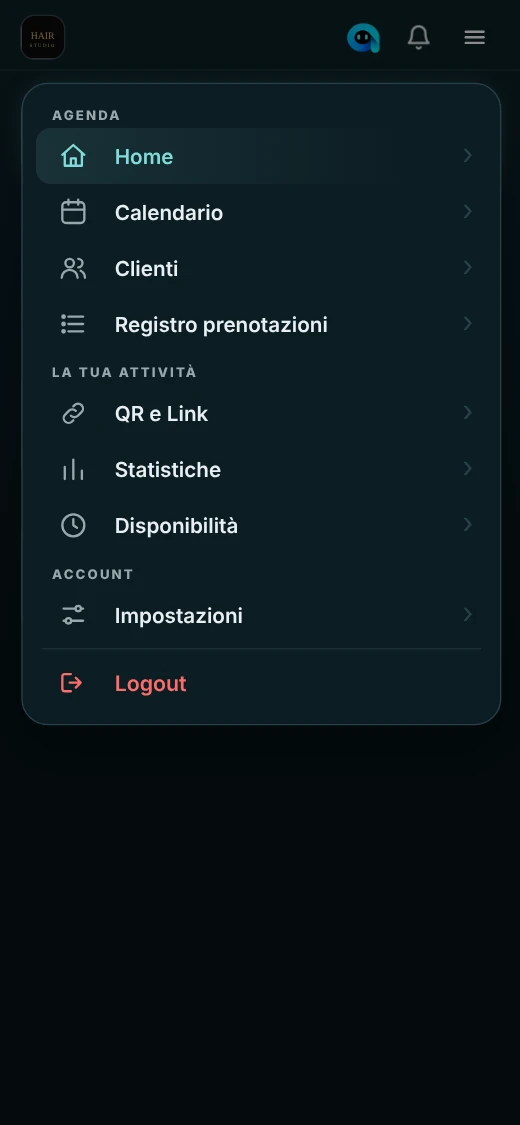
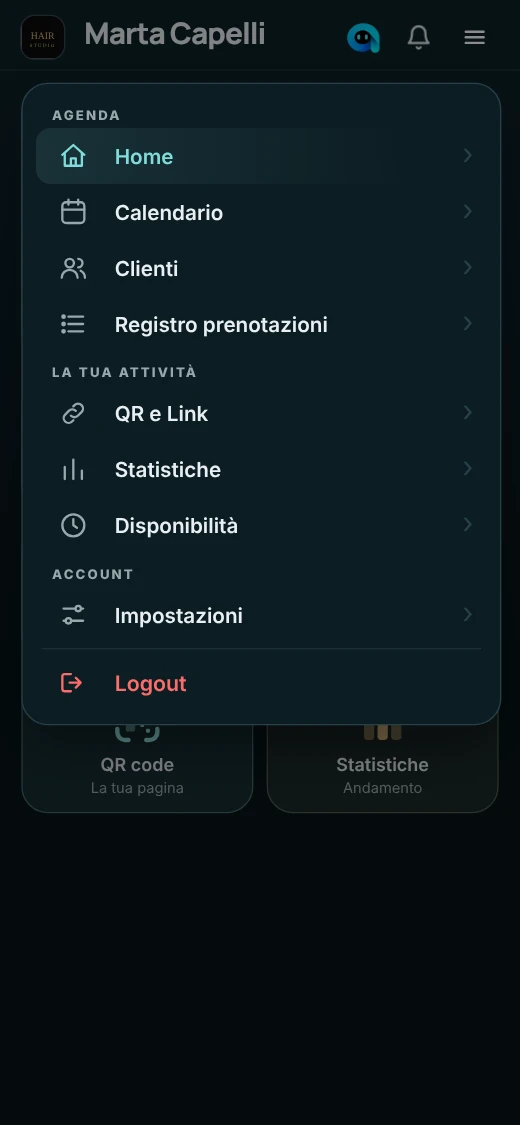
Tutorial: schermate iPad/desktop e tocco più leggero
Claude-Session: https://claude.ai/code/session_01MPSQ5jCZct4PB5C3Pt8sNX

diff --git a/public/provahtml/tutorial.html b/public/provahtml/tutorial.html
@@ -113,11 +113,11 @@
 #tutorial .tu-bar u{flex:1;margin-left:10px;height:15px;border-radius:8px;background:#13262c;max-width:260px;font:10px/15px system-ui;color:#6f8a91;text-decoration:none;padding:0 10px}
 #tutorial .tu-scr{position:relative;aspect-ratio:1280/800;container-type:inline-size;overflow:hidden}
 #tutorial .tu-cur{position:absolute;width:0;height:0;z-index:3;pointer-events:none}
-#tutorial .tu-cur b{display:block;position:absolute;left:-5.6cqw;top:-5.6cqw;width:11.2cqw;height:11.2cqw;border-radius:50%;border:1.5px solid rgba(156,235,235,.85);opacity:0}
-#tutorial .tu-cur i{position:absolute;left:-5.6cqw;top:-5.6cqw;width:11.2cqw;height:11.2cqw;border-radius:50%;background:radial-gradient(circle,rgba(255,255,255,.8) 0,rgba(156,235,235,.65) 28%,rgba(75,179,214,.3) 55%,transparent 73%);box-shadow:0 0 18px rgba(75,179,214,.45);opacity:0;transform:scale(0)}
-#tutorial .tu-scr .tu-cur b,#tutorial .tu-scr .tu-cur i{left:-2.6cqw;top:-2.6cqw;width:5.2cqw;height:5.2cqw}
-#tutorial .tu-cur.tap i{animation:tutp .85s cubic-bezier(.2,.7,.3,1)}#tutorial .tu-cur.tap b{animation:tutpr .85s ease-out}
-@keyframes tutp{0%{transform:scale(.45);opacity:0}12%{transform:scale(.8);opacity:1}100%{transform:scale(2.6);opacity:0}}@keyframes tutpr{0%{transform:scale(.6);opacity:.95}100%{transform:scale(2.9);opacity:0}}
+#tutorial .tu-cur b{display:block;position:absolute;left:-3.4cqw;top:-3.4cqw;width:6.8cqw;height:6.8cqw;border-radius:50%;border:1px solid rgba(156,235,235,.5);opacity:0}
+#tutorial .tu-cur i{position:absolute;left:-3.4cqw;top:-3.4cqw;width:6.8cqw;height:6.8cqw;border-radius:50%;background:radial-gradient(circle,rgba(255,255,255,.5) 0,rgba(156,235,235,.3) 38%,transparent 70%);opacity:0;transform:scale(0)}
+#tutorial .tu-scr .tu-cur b,#tutorial .tu-scr .tu-cur i{left:-1.7cqw;top:-1.7cqw;width:3.4cqw;height:3.4cqw}
+#tutorial .tu-cur.tap i{animation:tutp .7s ease-out}#tutorial .tu-cur.tap b{animation:tutpr .7s ease-out}
+@keyframes tutp{0%{transform:scale(.5);opacity:0}20%{transform:scale(.8);opacity:.9}100%{transform:scale(1.4);opacity:0}}@keyframes tutpr{0%{transform:scale(.7);opacity:.6}100%{transform:scale(1.6);opacity:0}}
 #tutorial .tu-one{width:min(260px,70%);margin:0 auto;opacity:0;transform:translateY(34px) scale(.95);transition:opacity .6s ease,transform .85s cubic-bezier(.2,.9,.3,1.08)}
 #tutorial .tu-one.dsk{width:100%}#tutorial .tu-one.show{opacity:1;transform:none}
 #tutorial .tu-tag{margin:14px 0 0}#tutorial .tu-tag span{display:inline-block;padding:7px 13px;border:1px solid var(--tl);border-radius:999px;font-size:13px;color:var(--tm)}#tutorial .tu-tag b{color:#F2F6F7}
@@ -691,8 +691,8 @@ var SEC=[
 {id:'domicilio',n:'Servizi a domicilio',e:'Ripetizioni, idraulici, elettricisti',ic:'<path d="M3 11l9-8 9 8v9a1 1 0 0 1-1 1h-4.5v-6h-7v6H4a1 1 0 0 1-1-1z"/>'},
 {id:'personal',n:'Personal trainer',e:'Coaching e pacchetti di ingressi',ic:'<path d="M2 12h1"/><path d="M6 8H4a1 1 0 0 0-1 1v6a1 1 0 0 0 1 1h2"/><path d="M6 7v10a1 1 0 0 0 1 1h1a1 1 0 0 0 1-1V7a1 1 0 0 0-1-1H7a1 1 0 0 0-1 1z"/><path d="M9 12h6"/><path d="M15 7v10a1 1 0 0 0 1 1h1a1 1 0 0 0 1-1V7a1 1 0 0 0-1-1h-1a1 1 0 0 0-1 1z"/><path d="M18 8h2a1 1 0 0 1 1 1v6a1 1 0 0 1-1 1h-2"/><path d="M22 12h-1"/>'}];
 var PP=[
-{l:'Come ti trovano',k:'Fatti trovare dai clienti',s:'Link, QR code e locandina in vetrina: un solo indirizzo, tanti modi per farlo arrivare ai tuoi clienti.',fr:[
- ['t1','Apri "QR e Link"','Dal menu, in un tocco',120,310],['t2','Il tuo link e il tuo QR code','Mandalo su WhatsApp, mettilo nella bio di Instagram o in un messaggio',195,654],['t2','Stampa la locandina','Il PDF è pronto da stampare',195,712],['t4','Mettila in vetrina','Chi passa inquadra il QR e prenota',195,700]]},
+{dk:[['dt1',1087,35],['dt2',640,525],['dt2',640,588],['dt4',0,0,1]],l:'Come ti trovano',k:'Fatti trovare dai clienti',s:'Link, QR code e locandina in vetrina: un solo indirizzo, tanti modi per farlo arrivare ai tuoi clienti.',fr:[
+ ['t1','Apri "QR e Link"','Dal menu, in un tocco',110,310],['t2','Il tuo link e il tuo QR code','Mandalo su WhatsApp, mettilo nella bio di Instagram o in un messaggio',195,654],['t2','Stampa la locandina','Il PDF è pronto da stampare',195,712],['t4','Mettila in vetrina','Chi passa inquadra il QR e prenota',0,0,1]]},
 {l:'Come prenotano',k:'I clienti prenotano, tu lo sai subito',s:'Da soli o in chat con Lia: stesso servizio, stesso orario. Poi la notifica arriva in agenda.'}];
 var CFS={"medico": {"dir": "medico/", "T": [25, 55, 85, 140, 190, 225, 250, 270], "reg": {"fr": [["r1", "Crea l'account", "Email, telefono e password", 195, 720], ["r2", "Scegli il settore", "Il tipo di attività decide le domande", 195, 809], ["r3", "Dai un nome allo studio", "Compare sulla pagina di prenotazione", 251, 809], ["r4", "Aggiungi i servizi", "Nome, durata e prezzo", 251, 809], ["r5", "Indica gli orari", "Giorni e orari in cui ricevi", 251, 809], ["r6", "Privacy dei pazienti", "Consenso e riservatezza già pensati per te", 251, 809], ["r7", "Imposta le regole", "Anticipo, preavviso e annullamenti", 251, 809], ["r8", "Controlla e apri l'agenda", "Tutto pronto", 251, 809]], "dk": [["d1", 960, 561], ["d2", 868, 676], ["d3", 924, 645], ["d4", 924, 641], ["d5", 924, 601], ["d6", 924, 646], ["d7", 924, 560], ["d8", 924, 760]]}, "sh": {"fr": [["menu", "Condividi il link", "Dal menu, con un tocco", 275, 174], ["qr", "Mostra il QR", "Il cliente inquadra e prenota", 195, 611], ["poster", "Stampa la locandina", "Pronta per vetrina o bancone", 195, 666]], "dk": [["dmenu", 1165, 174], ["dqr", 640, 589], ["dposter", 640, 635]]}, "book": {"s": "Il paziente sceglie giorno e orario dal calendario. Poi la notifica arriva in agenda.", "tag": "Esempio: <b>Prima visita · martedì 10 novembre, 12:30</b>", "note": "Lia, la segretaria virtuale, non è prevista per gli studi sanitari, per tutelare la privacy dei pazienti.", "cells": [["Il paziente", "self", "Sceglie visita, giorno e orario"], ["Il tuo calendario", "cal", "In attesa di prenotazioni"]], "cf": {"self": 9.55}}}, "domicilio": {"dir": "domicilio/", "T": [25, 55, 80, 110, 150, 185, 220, 250, 270], "reg": {"fr": [["r1", "Crea l'account", "Email, telefono e password", 195, 720], ["r2", "Scegli il settore", "Il tipo di attività decide le domande", 195, 809], ["r3", "Dai un nome all'attività", "Compare sulla pagina di prenotazione", 251, 809], ["r4", "Dove lavori", "A casa del cliente, online o nel tuo locale", 251, 809], ["r5", "Aggiungi i servizi", "Durata e un prezzo per ogni modalità", 251, 809], ["r6", "Indica le zone", "Le città in cui vai a domicilio", 251, 809], ["r7", "Indica gli orari", "Giorni e orari in cui ricevi", 251, 809], ["r8", "Imposta le regole", "Anticipo, preavviso, annullamenti e spostamenti", 251, 809], ["r9", "Controlla e apri l'agenda", "Tutto pronto", 251, 809]], "dk": [["d1", 960, 561], ["d2", 868, 676], ["d3", 924, 645], ["d4", 924, 564], ["d5", 924, 658], ["d6", 924, 537], ["d7", 924, 601], ["d8", 924, 593], ["d9", 924, 760]]}, "sh": {"fr": [["menu", "Condividi il link", "Dal menu, con un tocco", 275, 174], ["qr", "Mostra il QR", "Il cliente inquadra e prenota", 195, 611], ["poster", "Stampa la locandina", "Pronta per vetrina o bancone", 195, 666]], "dk": [["dmenu", 1165, 174], ["dqr", 640, 589], ["dposter", 640, 635]]}, "book": {"s": "Da soli o in chat con Lia: stesso servizio, stesso orario. Poi la notifica arriva in agenda.", "tag": "Stesso servizio per entrambi: <b>Lezione a domicilio · martedì 10 novembre, 16:00</b>", "note": "", "cells": [["Prenota da solo", "self", "Sceglie servizio, giorno e orario"], ["Chat con Lia", "chat", "Scrive a Lia come in chat"], ["Il tuo calendario", "cal", "In attesa di prenotazioni"]], "cf": {"self": 10.55, "chat": 10.49}}}, "sport": {"dir": "sport/", "T": [25, 55, 85, 110, 150, 190, 215, 240, 255, 270], "reg": {"fr": [["r1", "Crea l'account", "Email, telefono e password", 195, 720], ["r2", "Scegli il settore", "Il tipo di attività decide le domande", 195, 809], ["r3", "Dai un nome al centro", "Compare sulla pagina di prenotazione", 251, 809], ["r4", "Scegli lo sport", "Tennis, padel, calcio e altri", 251, 809], ["r5", "Inserisci i campi", "Superficie, durata e prezzo di ogni campo", 195, 583], ["r6", "Campi pronti", "Tutti salvati, uno alla volta", 251, 809], ["r7", "Indica gli orari", "Giorni e orari di apertura dei campi", 251, 809], ["r8", "Chi può prenotare", "Soci e non soci, oppure solo i soci", 251, 809], ["r9", "Imposta le regole", "Anticipo, preavviso e annullamenti", 251, 809], ["r10", "Controlla e apri l'agenda", "Tutto pronto", 251, 809]], "dk": [["d1", 960, 561], ["d2", 868, 676], ["d3", 924, 582], ["d4", 924, 501], ["d5", 868, 509], ["d6", 924, 528], ["d7", 924, 601], ["d8", 924, 593], ["d9", 924, 560], ["d10", 924, 760]]}, "sh": {"fr": [["menu", "Condividi il link", "Dal menu, con un tocco", 275, 174], ["qr", "Mostra il QR", "Il cliente inquadra e prenota", 195, 611], ["poster", "Stampa la locandina", "Pronta per vetrina o bancone", 195, 666]], "dk": [["dmenu", 1165, 174], ["dqr", 640, 589], ["dposter", 640, 635]]}, "book": {"s": "Da soli o in chat con Lia: stesso campo, stesso orario. Poi la notifica arriva in agenda.", "tag": "Stesso campo per entrambi: <b>Campo 2 · martedì 10 novembre, 18:00</b>", "note": "", "cells": [["Prenota da solo", "self", "Sceglie campo, giorno e orario"], ["Chat con Lia", "chat", "Scrive a Lia come in chat"], ["Il tuo calendario", "cal", "In attesa di prenotazioni"]], "cf": {"self": 15.45, "chat": 15.0}}}, "personal": {"dir": "personal/", "T": [25, 55, 85, 125, 170, 210, 235, 255, 270], "reg": {"fr": [["r1", "Crea l'account", "Email, telefono e password", 195, 720], ["r2", "Scegli il settore", "Il tipo di attività decide le domande", 195, 809], ["r3", "Dai un nome all'attività", "Compare sulla pagina di prenotazione", 251, 809], ["r4", "Scegli cosa offri", "Palestra oppure personal trainer", 251, 809], ["r5", "Aggiungi i pacchetti", "Ingressi, prezzo e durata del coaching", 251, 809], ["r6", "Indica gli orari", "Giorni e orari in cui ricevi", 251, 809], ["r7", "I tuoi iscritti", "Come prenotano con il loro codice", 251, 809], ["r8", "Imposta le regole", "Anticipo, preavviso e annullamenti", 251, 809], ["r9", "Controlla e apri l'agenda", "Tutto pronto", 251, 809]], "dk": [["d1", 960, 561], ["d2", 868, 676], ["d3", 924, 582], ["d4", 924, 580], ["d5", 924, 714], ["d6", 924, 586], ["d7", 924, 625], ["d8", 924, 560], ["d9", 924, 760]]}, "sh": {"fr": [["menu", "Condividi il link", "Dal menu, con un tocco", 286, 174], ["qr", "Mostra il QR", "L'iscritto inquadra e prenota", 207, 623], ["poster", "Stampa la locandina", "Pronta per vetrina o palestra", 208, 666]], "dk": [["dmenu", 1176, 174], ["dqr", 652, 601], ["dposter", 654, 635]], "k": "Fatti trovare dai tuoi iscritti"}, "book": {"s": "L'iscritto entra con il suo codice e prenota da solo, oppure scrive a Lia in chat. Poi la notifica arriva in agenda.", "tag": "Stesso coaching per entrambi: <b>giovedì 12 novembre, 18:00</b>", "note": "", "cells": [["Prenota da solo", "self", "Entra con il codice e sceglie giorno e ora"], ["Chat con Lia", "chat", "Scrive a Lia come in chat"], ["Il tuo calendario", "cal", "In attesa di prenotazioni"]], "cf": {"self": 18.25, "chat": 19.75}, "c1": 1800, "c2": 9300, "cd": 12300, "k": "Gli iscritti prenotano, tu lo sai subito"}}};
 var PERBK={s:'Da soli o in chat con Lia: stesso servizio, stesso orario. Poi la notifica arriva in agenda.',tag:'Stesso servizio per entrambi: <b>Taglio donna · martedì 10 novembre, 12:00</b>',note:'',cells:[['Prenota da solo','self','Sceglie servizio, giorno e orario'],['Chat con Lia','chat','Scrive a Lia come in chat'],['Il tuo calendario','cal','In attesa di prenotazioni']],cf:{self:8.48,chat:8.51}};
@@ -713,13 +713,13 @@ function Sec(i){var p=P[i],IS=p.fr?1:2,TM=[],run=0,vids=[],box=document.createEl
   box.querySelector('.tu-vis').insertAdjacentHTML('beforeend',dk?'<div class="tu-one dsk"><div class="tu-br"><div class="tu-bar"><i></i><i></i><i></i><u>prenolia.it</u></div><div class="tu-scr">'+im+'<div class="tu-cur"><b></b><i></i></div></div></div></div>':'<div class="tu-one"><div class="tu-ph">'+im+'<div class="tu-cur"><b></b><i></i></div></div></div>');
   var tx=box.querySelector('.tu-tx');
   tx.insertAdjacentHTML('beforeend','<div class="tu-lab"></div>'+(false?'<div class="tu-cr"><div class="big">0:00</div><small>tempo stimato per essere operativo</small></div>':''));
-  var one=box.querySelector('.tu-one'),imgs=[].slice.call(box.querySelectorAll('img.f')),cur=box.querySelector('.tu-cur'),lab=box.querySelector('.tu-lab'),cr=box.querySelector('.tu-cr'),cv=0;
+  var NT=p.fr.map(function(f,j){return dk?!!p.dk[j][3]:!!f[5]});var one=box.querySelector('.tu-one'),imgs=[].slice.call(box.querySelectorAll('img.f')),cur=box.querySelector('.tu-cur'),lab=box.querySelector('.tu-lab'),cr=box.querySelector('.tu-cr'),cv=0;
   function rend(s){box.querySelector('.big').textContent=Math.floor(s/60)+':'+('0'+s%60).slice(-2)}
   function tween(to,last){var from=cv,st=Date.now();(function f(){if(tok!==run)return;var q=Math.min(1,(Date.now()-st)/(D*.85));cv=from+(to-from)*(1-Math.pow(1-q,2));rend(Math.round(cv));if(q<1)requestAnimationFrame(f);else if(last){cr.classList.add('fin');cr.querySelector('small').textContent='Operativo! Tempo stimato: 4 minuti e mezzo'}})()}
   after(80,function(){one.classList.add('show')},tok);
   function go(k){imgs.forEach(function(m,j){m.classList.remove('on','out');if(j===k)m.classList.add('on');else if(j===(k+n-1)%n&&k>0)m.classList.add('out')});
-   if(cr)tween(STEPT[k],k==n-1);setLab(lab,p.fr[k][1],p.fr[k][2]);cur.style.left=(xy[k][0]/W*100)+'%';cur.style.top=(xy[k][1]/H*100)+'%'}
-  for(var k=0;k<n;k++)(function(k){after(500+k*D,function(){go(k)},tok);after(500+k*D+D-1050,function(){cur.classList.remove('tap');void cur.offsetWidth;cur.classList.add('tap')},tok)})(k);
+   if(cr)tween(STEPT[k],k==n-1);setLab(lab,p.fr[k][1],p.fr[k][2]);cur.style.left=(xy[k][0]/W*100)+'%';cur.style.top=(xy[k][1]/H*100)+'%';cur.style.display=NT[k]?'none':''}
+  for(var k=0;k<n;k++)(function(k){after(500+k*D,function(){go(k)},tok);if(!NT[k])after(500+k*D+D-1050,function(){cur.classList.remove('tap');void cur.offsetWidth;cur.classList.add('tap')},tok)})(k);
   after(500+n*D+700,function(){start()},tok)}
  function book(tok){var K=BKC;
   box.querySelector('.tu-tx').insertAdjacentHTML('beforeend','<div class="tu-tag"><span>'+K.tag+'</span></div>'+(K.note?'<p class="tu-note">'+K.note+'</p>':''));
